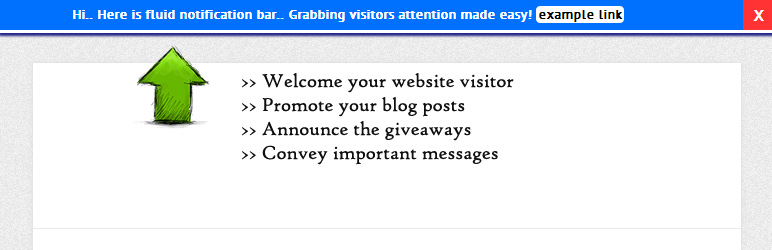
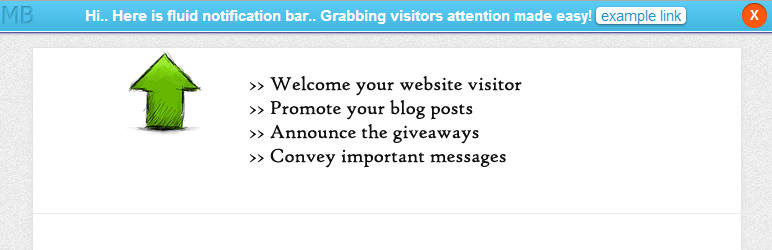
Releasing fluid-notification-bar 2.1
git-svn-id: https://plugins.svn.wordpress.org/fluid-notification-bar/trunk@786816 b8457f37-d9ea-0310-8a92-e5e31aec5664

Changed region(s): [[0.0, 0.0, 1.0, 0.532], [0.3109, 0.392, 0.6528, 0.672], [0.3109, 0.28, 0.6839, 0.364]]

diff --git a/fnbar_css.css b/fnbar_css.css
@@ -1,23 +1,72 @@
 @charset "utf-8";
 /* CSS Document */
-#toolbar_holder{
-	display:none; width:100%;  height:auto; background-color:#0070FF;  border-bottom:solid #FFF; box-shadow: 1px 1px 2px 2px #242888; overflow:hidden
+#mb_fluid_notibar_holder{
+	display:none; width:100%;  height:auto; background-color:#0070FF;  border-bottom:solid thin #FFF; box-shadow: 0px 0px 1px 1px #242888; overflow:hidden;
+	
+background: #5accf5;
+background: -moz-linear-gradient(top, #5accf5 0%, #43b6e0 100%);
+background: -webkit-gradient(left top, left bottom, color-stop(0%, #5accf5), color-stop(100%, #43b6e0));
+background: -webkit-linear-gradient(top, #5accf5 0%, #43b6e0 100%);
+background: -o-linear-gradient(top, #5accf5 0%, #43b6e0 100%);
+background: -ms-linear-gradient(top, #5accf5 0%, #43b6e0 100%);
+background: linear-gradient(to bottom, #5accf5 0%, #43b6e0 100%);
+filter: progid:DXImageTransform.Microsoft.gradient( startColorstr='#5accf5', endColorstr='#43b6e0', GradientType=0 );
+	
 }
-#toolbar{
+#mb_fluid_notibar{
 	width:90%; height:auto; color:#FFF; text-align:center; font-weight:bold; float:left;line-height:30px;
+	
 	}
 
-#toolbar a{
+#mb_fluid_notibar a{
 	background-color:#FFF;
-	padding-left:2px;
-	padding-right:2px;
-	color:#000;
+	padding-left: 5px;
+	padding-right: 5px;
+	color:#039AD5;
+	text-decoration:none;
+	font-weight:normal;
+	
+	-webkit-box-shadow: 0 1px 3px rgba(0,0,0,0.5);
+	-moz-box-shadow: 0 1px 3px rgba(0,0,0,0.5);
+	box-shadow: 0 1px 3px rgba(0,0,0,0.5);
+	
 	
 	-webkit-border-radius: 4px;
 	-moz-border-radius: 4px;
 	border-radius: 4px;
 	}
 	
-#hidetoolbar{
-	height:30px; width:30px; background-color:#F33; color:#FFF; float:right; font-size:medium; cursor:pointer; text-align:center;font-weight:bold; line-height:30px;
+#mb_fluid_notibar a:hover{
+background: #ffffff;
+/* Old Browsers */background: -moz-linear-gradient(top, #ffffff 0%, #bffffc 100%);
+ /* FF3.6+ */background: -webkit-gradient(left top, left bottom, color-stop(0%, #ffffff), color-stop(100%, #bffffc));
+/* Chrome,Safari4+  */background: -webkit-linear-gradient(top, #ffffff 0%, #bffffc 100%);
+ /* Chrome10+,Safari5.1+ */background: -o-linear-gradient(top, #ffffff 0%, #bffffc 100%);
+ /* Opera 11.10+ */background: -ms-linear-gradient(top, #ffffff 0%, #bffffc 100%);
+ /* IE 10+ */background: linear-gradient(to bottom, #ffffff 0%, #bffffc 100%);
+/* W3C */filter: progid:DXImageTransform.Microsoft.gradient( startColorstr='#ffffff', endColorstr='#bffffc', GradientType=0 );
+/* IE6-9 */
+}
+
+#hide_mb_fluid_notibar{
+	height: 25px;
+	width: 25px;
+	margin-right: 5px;
+	margin-top: 2px;
+	background-color: #FF580A;
+	color: #FFF;
+	float: right;
+	font-size: small;
+	cursor: pointer;
+	text-align: center;
+	font-weight: bold;
+	line-height: 25px;
+	
+	border-radius: 200px 200px 200px 200px;
+	-moz-border-radius: 200px 200px 200px 200px;
+	-webkit-border-radius: 200px 200px 200px 200px;
+	
+	-webkit-box-shadow: inset 0px 1.5px 1px 0px rgba(0,0,0,0.40);
+	-moz-box-shadow: inset 0px 1.5px 1px 0px rgba(0,0,0,0.40);
+	box-shadow: inset 0px 1.5px 1px 0px rgba(0,0,0,0.40);
 }

diff --git a/fnbar_js.js b/fnbar_js.js
@@ -1,21 +1,27 @@
 jQuery(document).ready(function(){
-    <!--As our notification bar is responsive, it should be margined properly in any resolution-->
+    //As our notification bar is responsive, it should be margined properly in any resolution
     
-    $toolbarheight=jQuery("#toolbar_holder").height();
-    jQuery("#toolbar_holder").css({"margin-top":-$toolbarheight-10});
-    jQuery("#hidetoolbar").css({"visibility":"hidden"});
+    $toolbarheight=jQuery("#mb_fluid_notibar_holder").height();
+	jQuery("#mb_fluid_notibar").css({"display":"none"});
+    jQuery("#mb_fluid_notibar_holder").css({"margin-top":-$toolbarheight});
     
-    <!--Show notification after 5 second-->
-    jQuery("#toolbar_holder").delay(5000).show(0);
-	jQuery("#toolbar_holder").css({"display":"block"});
-    jQuery("#hidetoolbar").css({"visibility":"visible"});
-    jQuery("#toolbar_holder").animate({"margin-top": "0px"},1000);
-    
-    
-    <!--close button-->
-    jQuery("#hidetoolbar").bind("click", function(){
-    $mytoolbarheight=jQuery("#toolbar_holder").height();
-    jQuery("#toolbar_holder").animate({"margin-top": -$mytoolbarheight-10},1000);
-    jQuery("#toolbar_holder").hide(0);
+    //Show notification after 5 second
+    jQuery("#mb_fluid_notibar_holder").delay(5000).show(0);
+	function shownotibar() {  
+		jQuery("#mb_fluid_notibar").css({"display":"block"});
+		jQuery("#mb_fluid_notibar_holder").css({"display":"block"});
+   		jQuery("#mb_fluid_notibar_holder").animate({"margin-top": "0px"},1000);
+	}
+	 // use setTimeout() to execute
+	 setTimeout(shownotibar, 5000)
+	
+    //close button
+    jQuery("#hide_mb_fluid_notibar").bind("click", function(){
+    $mytoolbarheight=jQuery("#mb_fluid_notibar_holder").height();
+    jQuery("#mb_fluid_notibar_holder").animate({"margin-top": -$mytoolbarheight},1000);
+    jQuery("#mb_fluid_notibar_holder").hide(0);
     });
+	
+	
+	
 });

diff --git a/fluid-notification-bar.php b/fluid-notification-bar.php
@@ -5,7 +5,7 @@ Plugin Name: Fluid Notification Bar
 Plugin URI: http://masterblogster.com/plugins/fluid-notification-bar/
 Description: Wanna say something to your website visitor? This plugin adds the cool responsive notification bar on the top of your website homepage.
 Author: Shrinivas Naik
-Version: 2.0
+Version: 2.1
 Author URI: http://www.masterblogster.com
 */
 
@@ -21,21 +21,24 @@ function load_fn_notibar_on_header()
         $fn_noti_text=get_option('fn_notibar_options');
 
     if($fn_noti_text['fn_notibar_text']==""){
-    $fn_noti_text['fn_notibar_text']='Welcome to Fluid Notification Bar.. Go to Settings>>Fluid Notification Bar Options to add your notification, <a href="http://masterblogster.com/plugins/fluid-notification-bar/" target="blank"> click here</a> for more info.';
+    $fn_noti_text['fn_notibar_text']='Welcome to Fluid Notification Bar.. Go to Settings>>Fluid Notification Bar Options to add your notification.';
     }
-    
-    echo '<div id="toolbar_holder">
-	<div id="toolbar">'. $fn_noti_text['fn_notibar_text'] .'</div>
-    <div id="hidetoolbar">X</div>
-	</div>';
- 
+    ?>
+    <div id="mb_fluid_notibar_holder">
+        <div style="float:left">
+        <a href="http://www.masterblogster.com" target="_blank" title="Master Blogster"><img src="<?php echo plugins_url('mb_logo.png' , __FILE__ )?>" style="vertical-align:middle"/></a>
+        </div>
+        <div id="mb_fluid_notibar"><?php echo $fn_noti_text['fn_notibar_text']; ?></div>
+        <div id="hide_mb_fluid_notibar">X</div>
+	</div>
+ <?php
 }
 
 function fn_notibar_scripts() {
     wp_enqueue_script( 'jquery' );
-    wp_enqueue_script('newscript',plugins_url( 'fnbar_js.js' , __FILE__ ),array( 'jquery' ));
-    wp_register_style( 'prefix-style', plugins_url('fnbar_css.css', __FILE__) );
-    wp_enqueue_style( 'prefix-style' );
+    wp_enqueue_script('fnbar_js',plugins_url( 'fnbar_js.js' , __FILE__ ),array( 'jquery' ));
+    wp_register_style( 'fnbar_css', plugins_url('fnbar_css.css', __FILE__) );
+    wp_enqueue_style( 'fnbar_css' );
 }
 
 add_action('wp_head','load_fn_notibar_on_header');
